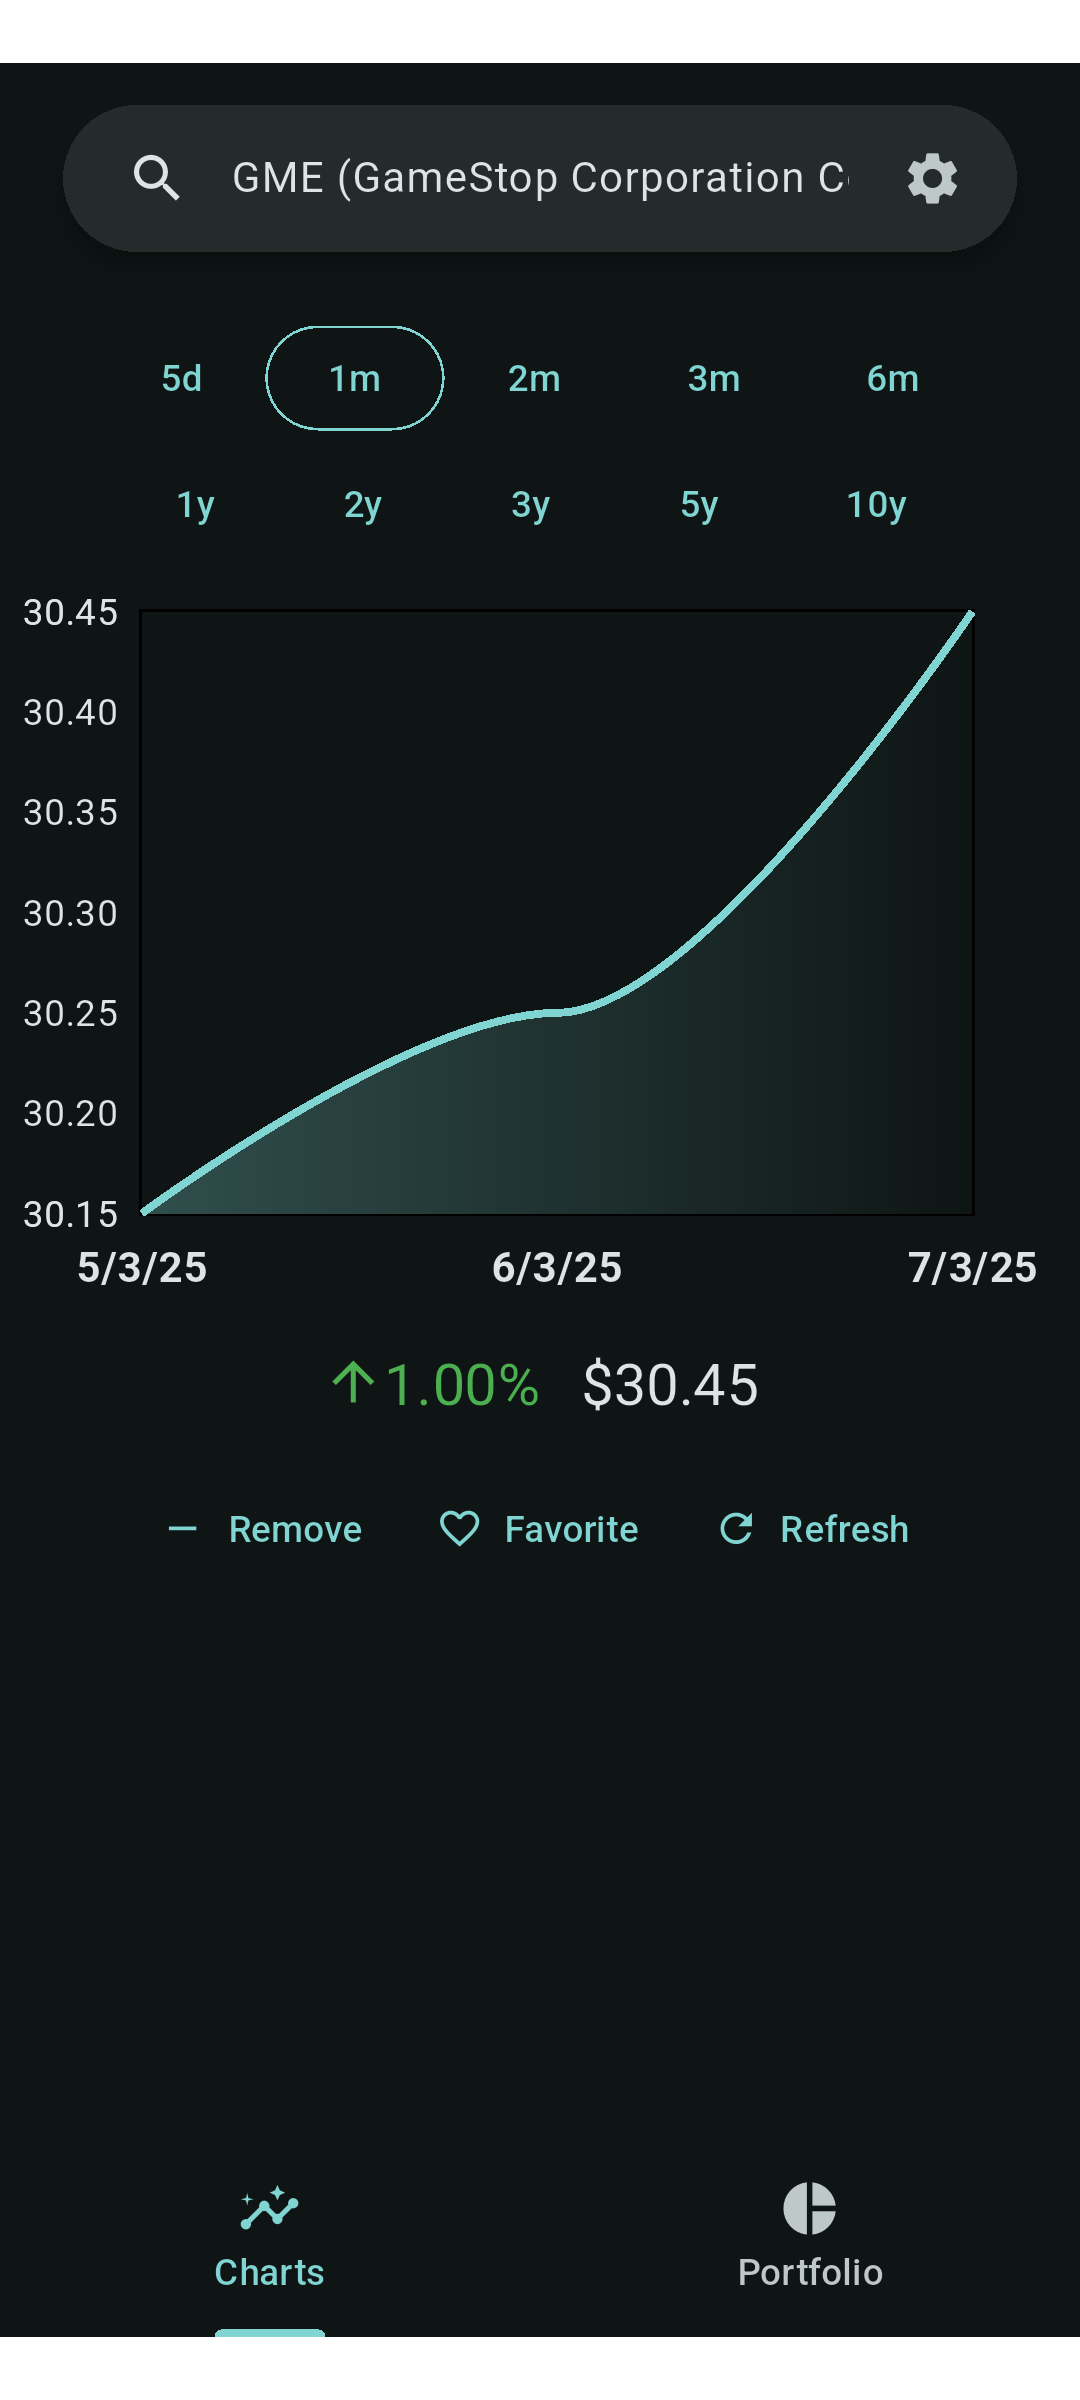
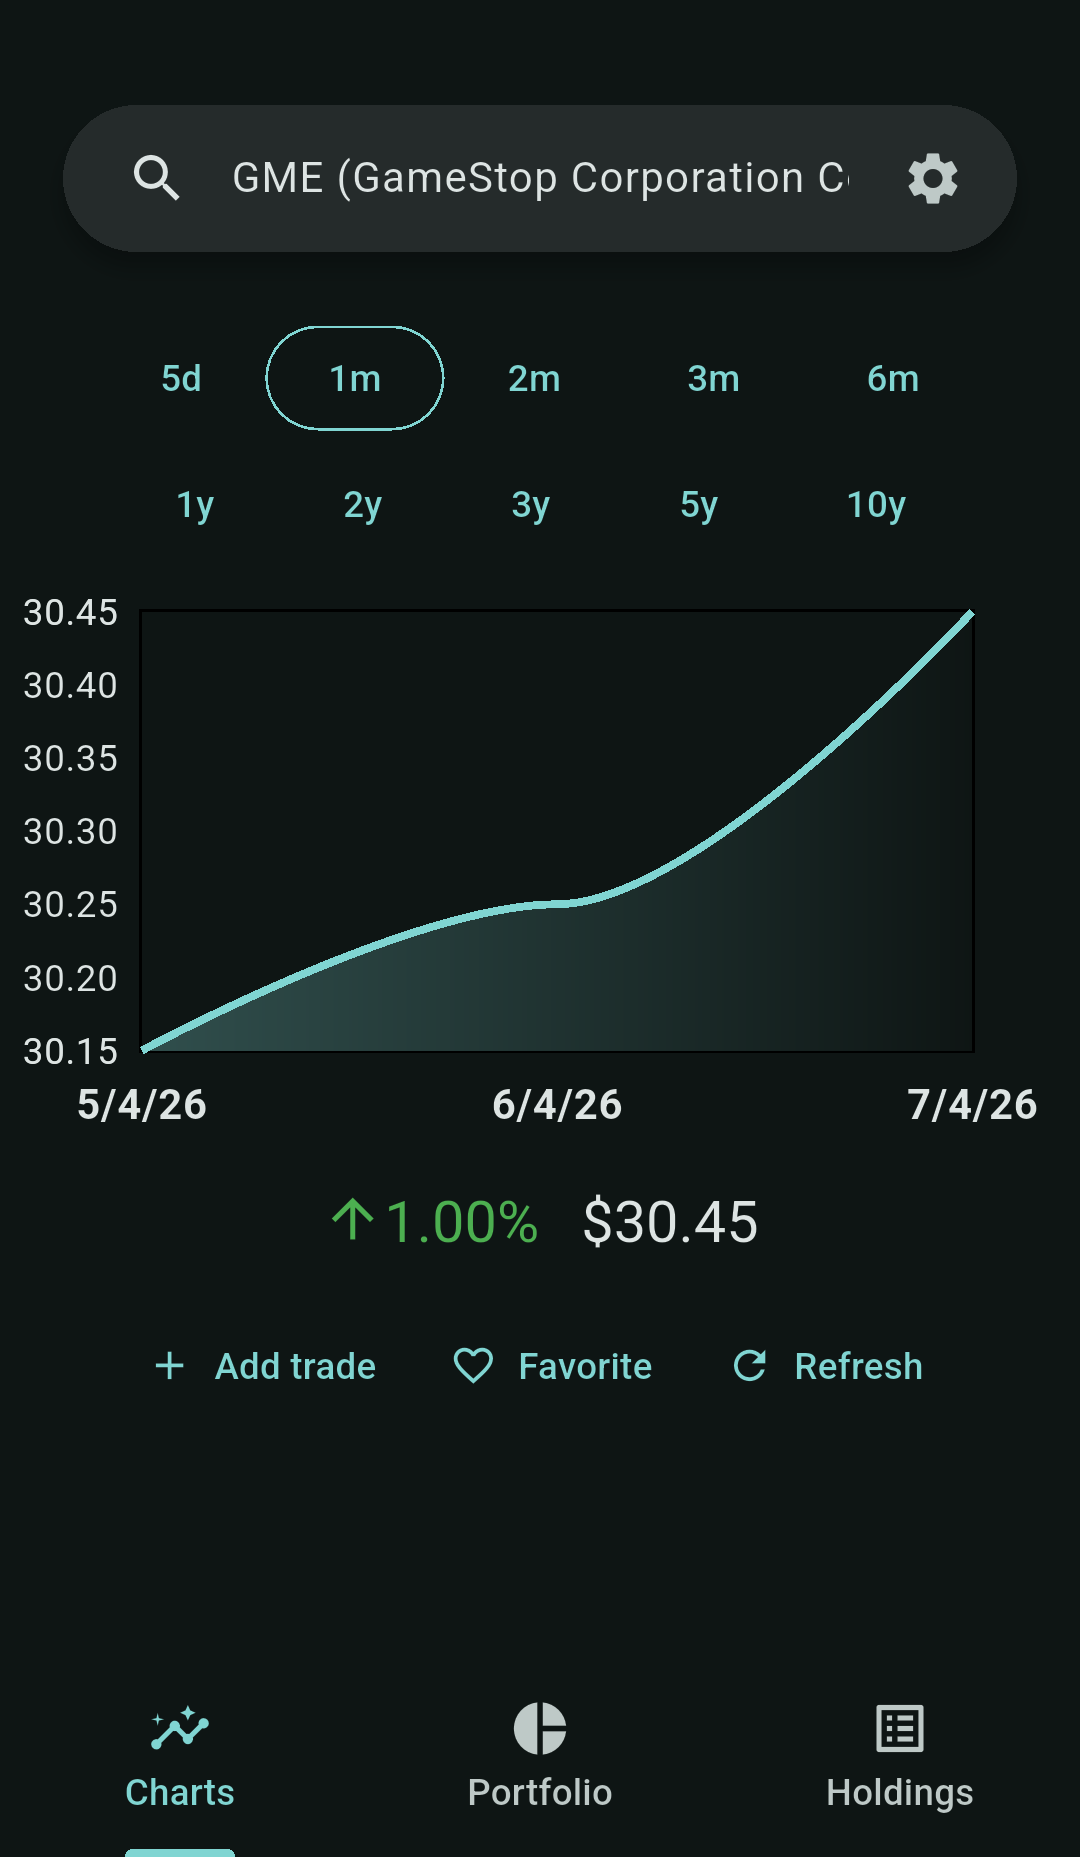
Update screenshots [skip ci]

diff --git a/integration_test/screenshot_test.dart b/integration_test/screenshot_test.dart
@@ -6,6 +6,7 @@ import 'package:integration_test/integration_test.dart';
 import 'package:market_monk/chart_page.dart';
 import 'package:market_monk/database.dart';
 import 'package:market_monk/edit_ticker_page.dart';
+import 'package:market_monk/holdings_page.dart';
 import 'package:market_monk/main.dart' as app;
 import 'package:market_monk/portfolio_page.dart';
 import 'package:market_monk/settings_page.dart';
@@ -134,7 +135,7 @@ List<CandlesCompanion> mockCandles = [
   ),
 ];
 
-enum TabBarState { chart, portfolio }
+enum TabBarState { chart, portfolio, holdings }
 
 Future<void> appWrapper() async {
   WidgetsFlutterBinding.ensureInitialized();
@@ -161,6 +162,9 @@ BuildContext getBuildContext(WidgetTester tester, TabBarState? tabBarState) {
           .context;
     case null:
       break;
+    case TabBarState.holdings:
+      return (tester.state(find.byType(HoldingsPage)) as HoldingsPageState)
+          .context;
   }
 
   return tester.element(find.byType(TabBarView));
@@ -260,6 +264,20 @@ void main() {
           page: const EditTickerPage(symbol: 'GME'),
         ),
         tabBarState: TabBarState.portfolio,
+      ),
+    );
+
+    testWidgets(
+      "HoldingsPage",
+      (tester) async => await generateScreenshot(
+        binding: binding,
+        tester: tester,
+        screenshotName: '5_en-US',
+        navigateToPage: (context) async => navigateTo(
+          context: context,
+          page: const HoldingsPage(),
+        ),
+        tabBarState: TabBarState.holdings,
       ),
     );
   });

diff --git a/lib/holdings_page.dart b/lib/holdings_page.dart
@@ -29,10 +29,10 @@ class HoldingsPage extends StatefulWidget {
   const HoldingsPage({super.key});
 
   @override
-  State<HoldingsPage> createState() => _HoldingsPageState();
+  State<HoldingsPage> createState() => HoldingsPageState();
 }
 
-class _HoldingsPageState extends State<HoldingsPage>
+class HoldingsPageState extends State<HoldingsPage>
     with AutomaticKeepAliveClientMixin {
   @override
   bool get wantKeepAlive => true;
